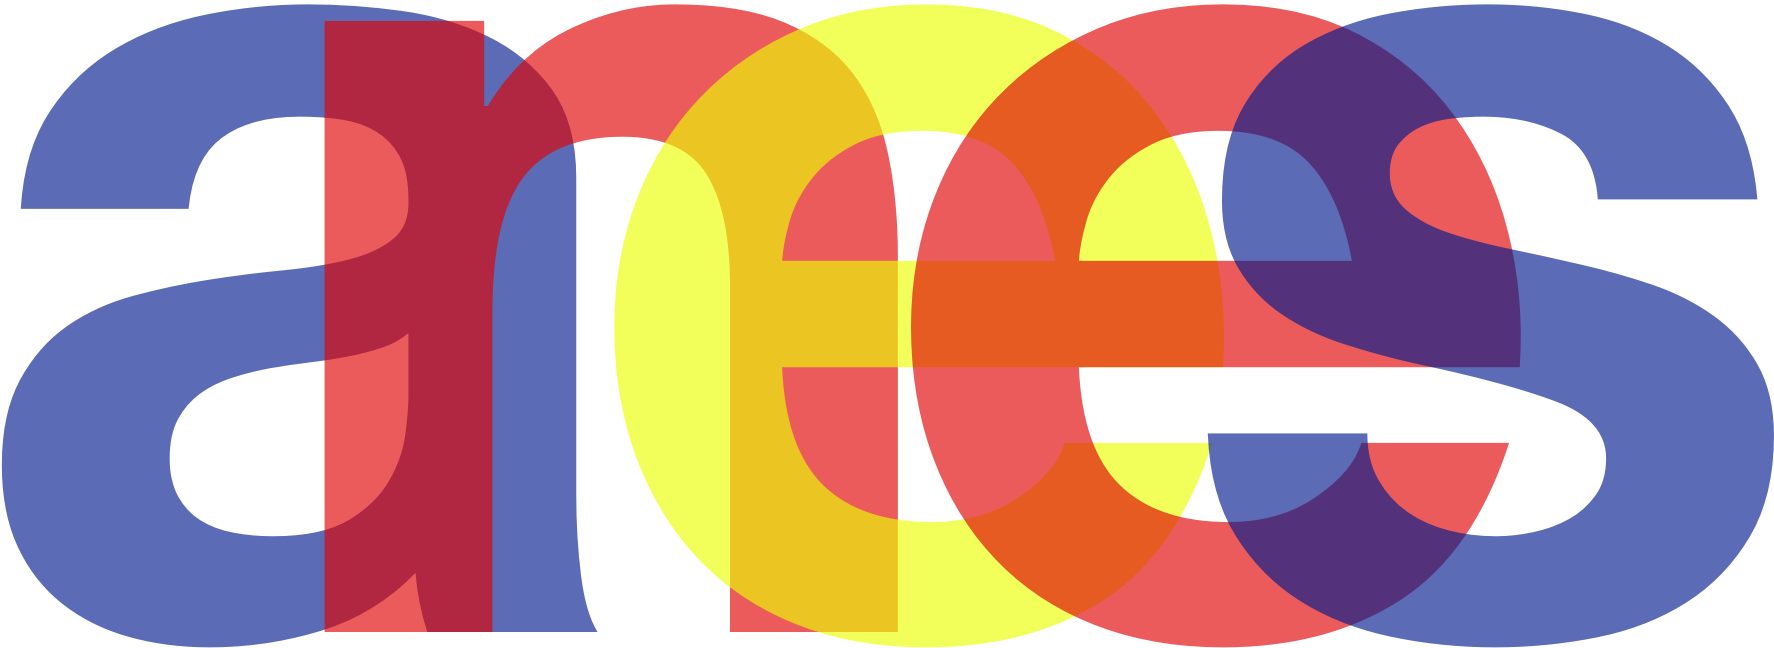
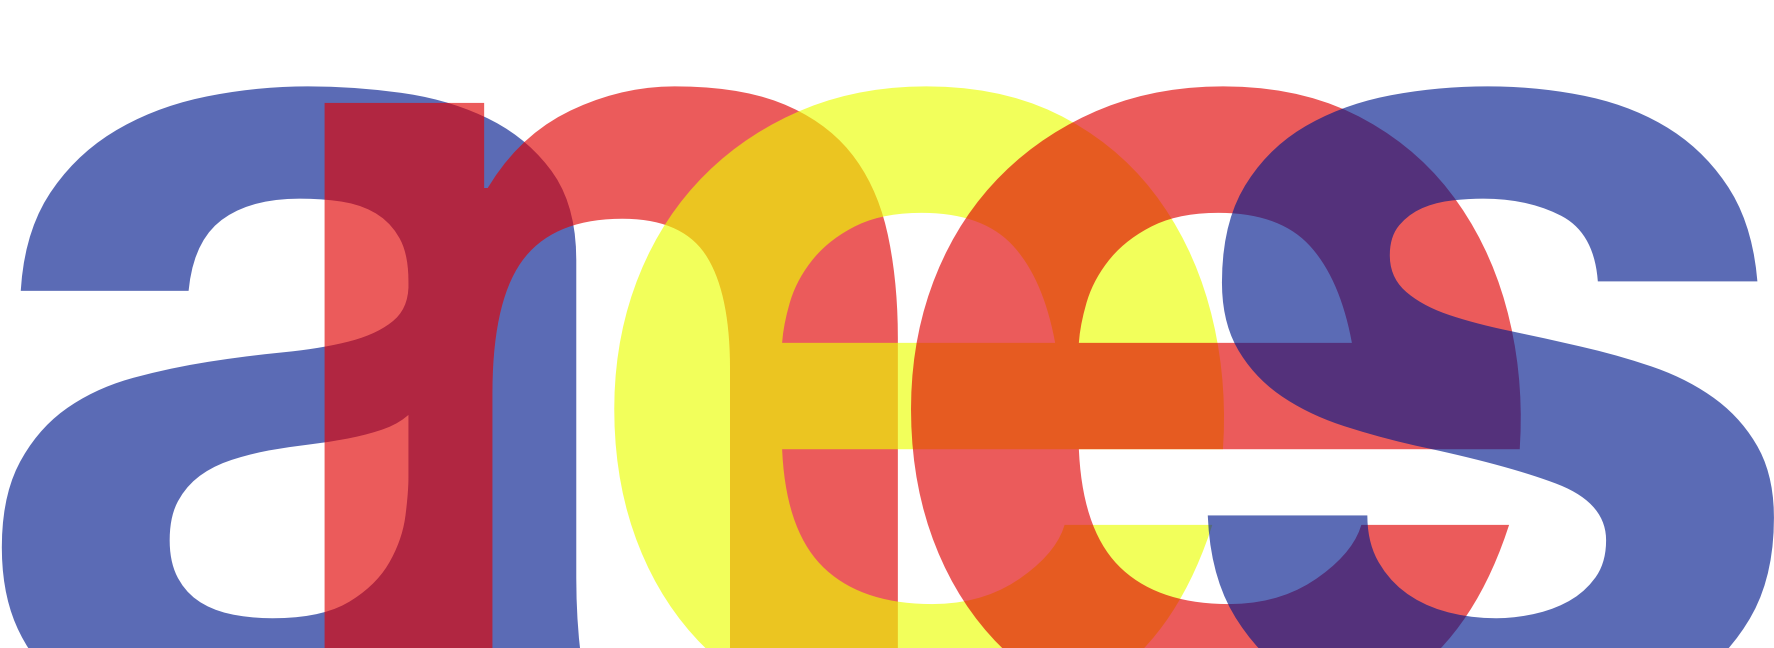
fuck if i know

diff --git a/css/main.css b/css/main.css
@@ -1,30 +1,79 @@
 
-@fontface{
+@font-face{
 	font-family: headerFont;
 	src: url("../fonts/title1.otf")
+}
+
+@font-face{
+	font-family: linkFont;
+	src: url("../fonts/body.otf")
+}
+
+html
+{
+	height: 100%;
 }
 
 body
 {
 	background-color: #FFF6F0;
+	margin: 0 auto;
+}
+
+a, a:hover
+{
+	font-style: none;
+	text-decoration: none;
+
+	font-size: 24px;
+	padding-left: 50px;
+	padding-right: 50px;
+}
+
+.content-container
+{
+	min-width: 900px;
+	min-height: 900px;
+	background-color: red;
+
 }
 
 .header
 {
-	padding: 0px;
 
-
-	position: absolute;
-	bottom: -70px;
-	left: 20%;
+	width: 900px;
 
 	display: block;
 	margin-left: auto;
 	margin-right: auto;
+
+	position: absolute;
+	bottom: 0px;
+	left: 0px;
+	right: 0px;
+}
+
+.links
+{
+	font-family: linkFont;
+	text-align: center;
+
+	padding-top: 20px;
+	margin-bottom: 20%;
+	margin-left: auto;
+	margin-right: auto;
+
 }
 
 .headerText
 {
+	display: block;
 	font-family: headerFont;
-	font-size: 30px;
+	color: #4F4F4F;
+	font-size: 40px;
+	letter-spacing: 40px;
+
+
+	text-align: center;
+
 }

diff --git a/index.html b/index.html
@@ -11,9 +11,8 @@
 		<script src="js/bootstrap.min.js"></script>
 	</head>
 	<body>
-		<div>
-			<img class="header" src="assets/headericon.png" width="60%" />
-			<a class="headerText">MOHAMMAD</a>
+		<div class="content-container">
+			<img class="header" src="assets/headericon.png"/>
 		</div>
   </body>
 </html>
